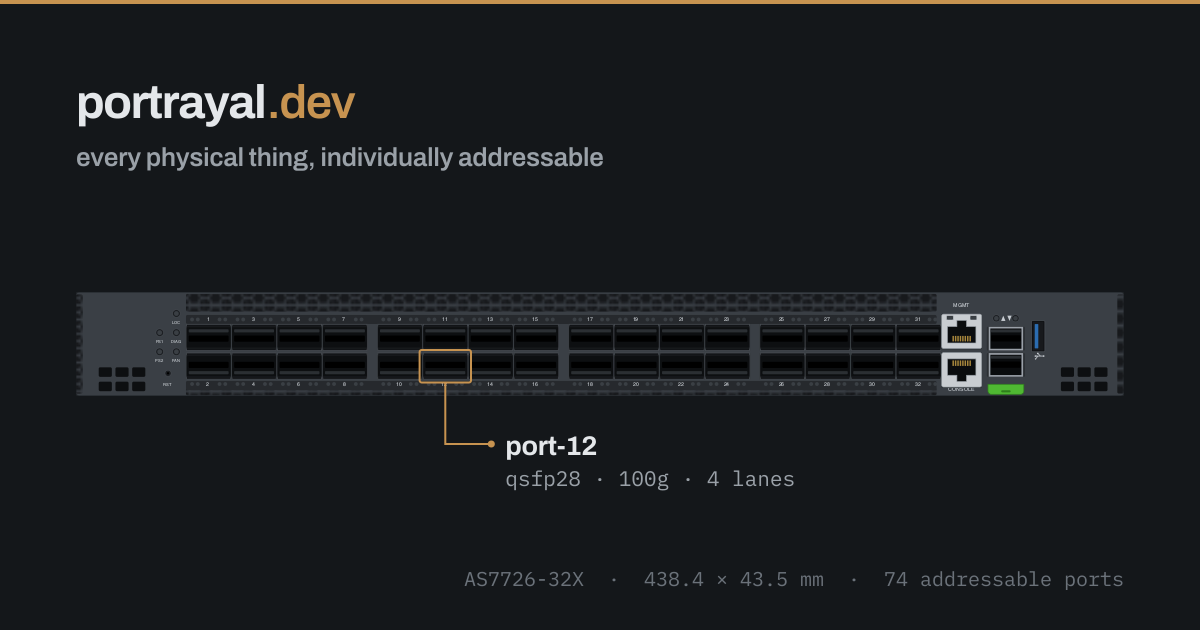
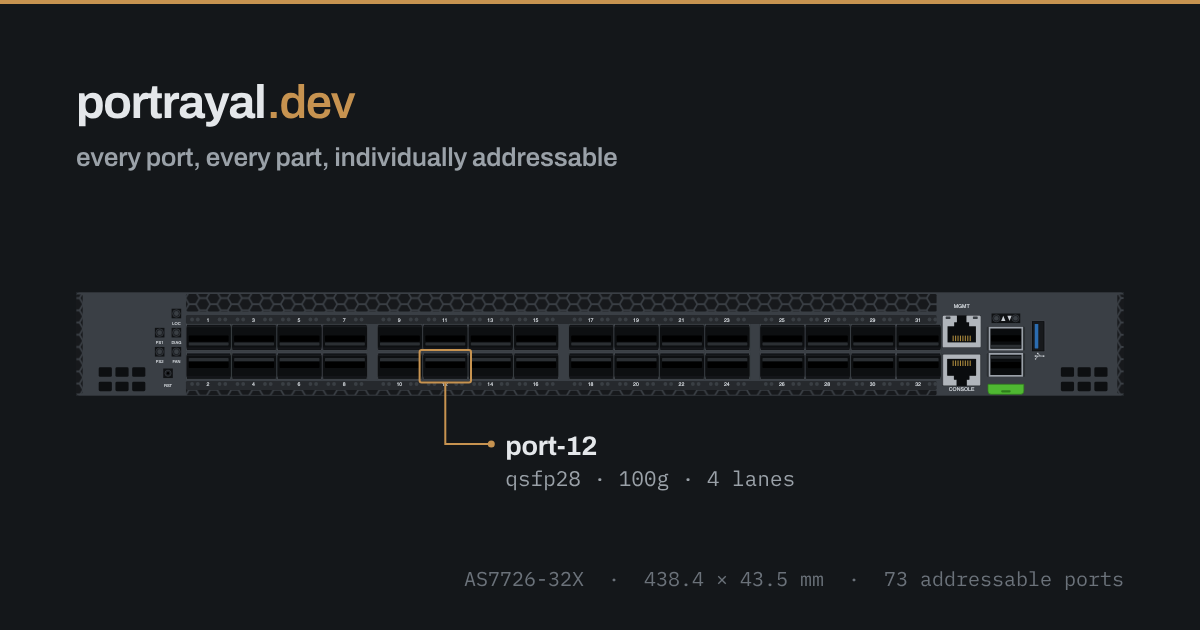
tagline: every port, every part, individually addressable
"Every physical thing" read vague. The headline, titles, social tags, README,
brand exploration and the generated social card all carry the new line. The
card is regenerated from the current AS7726-32X drawing, so it also picks up
the synced faceplate (73 addressable ports).

Changed region(s): [[0.1233, 0.4524, 0.8633, 0.6333], [0.1233, 0.2413, 0.5242, 0.2714], [0.74, 0.9048, 0.7708, 0.9349]]

diff --git a/index.html b/index.html
@@ -3,19 +3,19 @@
 <head>
 <meta charset="utf-8">
 <meta name="viewport" content="width=device-width, initial-scale=1">
-<title>Portrayal — every physical thing, individually addressable</title>
+<title>Portrayal — every port, every part, individually addressable</title>
 <meta name="description" content="Declarative, Git-versioned hardware device definitions, compiled into SVG where every port, PSU, fan, LED, bay and region is individually addressable.">
 <meta property="og:type" content="website">
 <meta property="og:site_name" content="portrayal.dev">
 <meta property="og:url" content="https://portrayal.dev/">
-<meta property="og:title" content="Portrayal — every physical thing, individually addressable">
+<meta property="og:title" content="Portrayal — every port, every part, individually addressable">
 <meta property="og:description" content="Declarative, Git-versioned hardware device definitions, compiled into SVG where every port, PSU, fan, LED, bay and region is individually addressable.">
 <meta property="og:image" content="https://portrayal.dev/brand/og-card.png">
 <meta property="og:image:width" content="1200">
 <meta property="og:image:height" content="630">
 <meta property="og:image:alt" content="An AS7726-32X faceplate compiled from its manifest, with a brass callout on port-12 reading qsfp28 · 100g · 4 lanes.">
 <meta name="twitter:card" content="summary_large_image">
-<meta name="twitter:title" content="Portrayal — every physical thing, individually addressable">
+<meta name="twitter:title" content="Portrayal — every port, every part, individually addressable">
 <meta name="twitter:description" content="Declarative, Git-versioned hardware device definitions, compiled into SVG where every port, PSU, fan, LED, bay and region is individually addressable.">
 <meta name="twitter:image" content="https://portrayal.dev/brand/og-card.png">
 <link rel="icon" href="brand/favicon.svg" type="image/svg+xml">
@@ -85,7 +85,7 @@
            the drawing before anyone had looked at it. -->
       <p class="eyebrow"><span data-stat="schema">v0</span> · schemas will change ·
           <span class="on"><span data-stat="devices">—</span> devices, <span data-stat="vendors">—</span> vendors</span></p>
-      <h1>Every physical thing,<br>individually addressable.</h1>
+      <h1>Every port, every part,<br>individually addressable.</h1>
       <p class="lede">
           Portrayal turns a YAML device manifest into a model in real
           millimeters, where every port, PSU, fan, LED, bay and region is a named

diff --git a/coming-soon/index.html b/coming-soon/index.html
@@ -9,7 +9,7 @@
 <meta property="og:type" content="website">
 <meta property="og:site_name" content="portrayal.dev">
 <meta property="og:url" content="https://portrayal.dev/">
-<meta property="og:title" content="Portrayal — every physical thing, individually addressable">
+<meta property="og:title" content="Portrayal — every port, every part, individually addressable">
 <meta property="og:description" content="Declarative, Git-versioned hardware device definitions, compiled into SVG where every port, PSU, fan, LED, bay and region is individually addressable. Coming soon.">
 <meta property="og:image" content="https://portrayal.dev/og-card.png">
 <meta property="og:image:width" content="1200">
@@ -125,7 +125,7 @@
         <source src="hero-3d.mp4" type="video/mp4">
       </video>
     </div>
-    <h1>Every physical thing,<br>individually addressable.</h1>
+    <h1>Every port, every part,<br>individually addressable.</h1>
     <p class="lede">
       Portrayal turns a YAML device manifest into a model in real millimeters,
       where every port, PSU, fan, LED, bay and region is a named thing with a

diff --git a/brand/exploration.html b/brand/exploration.html
@@ -640,7 +640,7 @@ footer { padding: 3rem 0 4rem; border-top: 1px solid var(--line-soft); color: va
           <span class="n">Display</span>
           <span class="d">Archivo 700/800. Headlines and the wordmark. Tight tracking, never below 1.4rem.</span>
         </div>
-        <div class="spec-a">Every physical thing, individually addressable</div>
+        <div class="spec-a">Every port, every part, individually addressable</div>
       </div>
 
       <div class="spec">

diff --git a/brand/build-brand.py b/brand/build-brand.py
@@ -174,7 +174,7 @@ def og_card(ref='as7726-32x', cfg='ac-f2b', port='port-12',
 
     wm_name, w1 = a700.text_path('portrayal', 47, -0.03, pad, 118)
     wm_tld, w2 = a600.text_path('.dev', 47, -0.03, pad + w1, 118)
-    tag, _ = a600.text_path('every physical thing, individually addressable',
+    tag, _ = a600.text_path('every port, every part, individually addressable',
                             26, -0.01, pad, 166)
     foot, fwid = mono.text_path(
         f'{model}  ·  {dw:g} × {dh:g} mm  ·  {nports} addressable ports',

diff --git a/README.md b/README.md
@@ -1,8 +1,8 @@
 # portrayal-site
 
 Site and identity work for **Portrayal** — declarative, Git-versioned hardware
-device definitions compiled into SVG where every physical thing is individually
-addressable.
+device definitions compiled into SVG where every port and every part is
+individually addressable.
 
 Kept deliberately outside the Portrayal repository so nothing here disturbs work
 in progress there.
